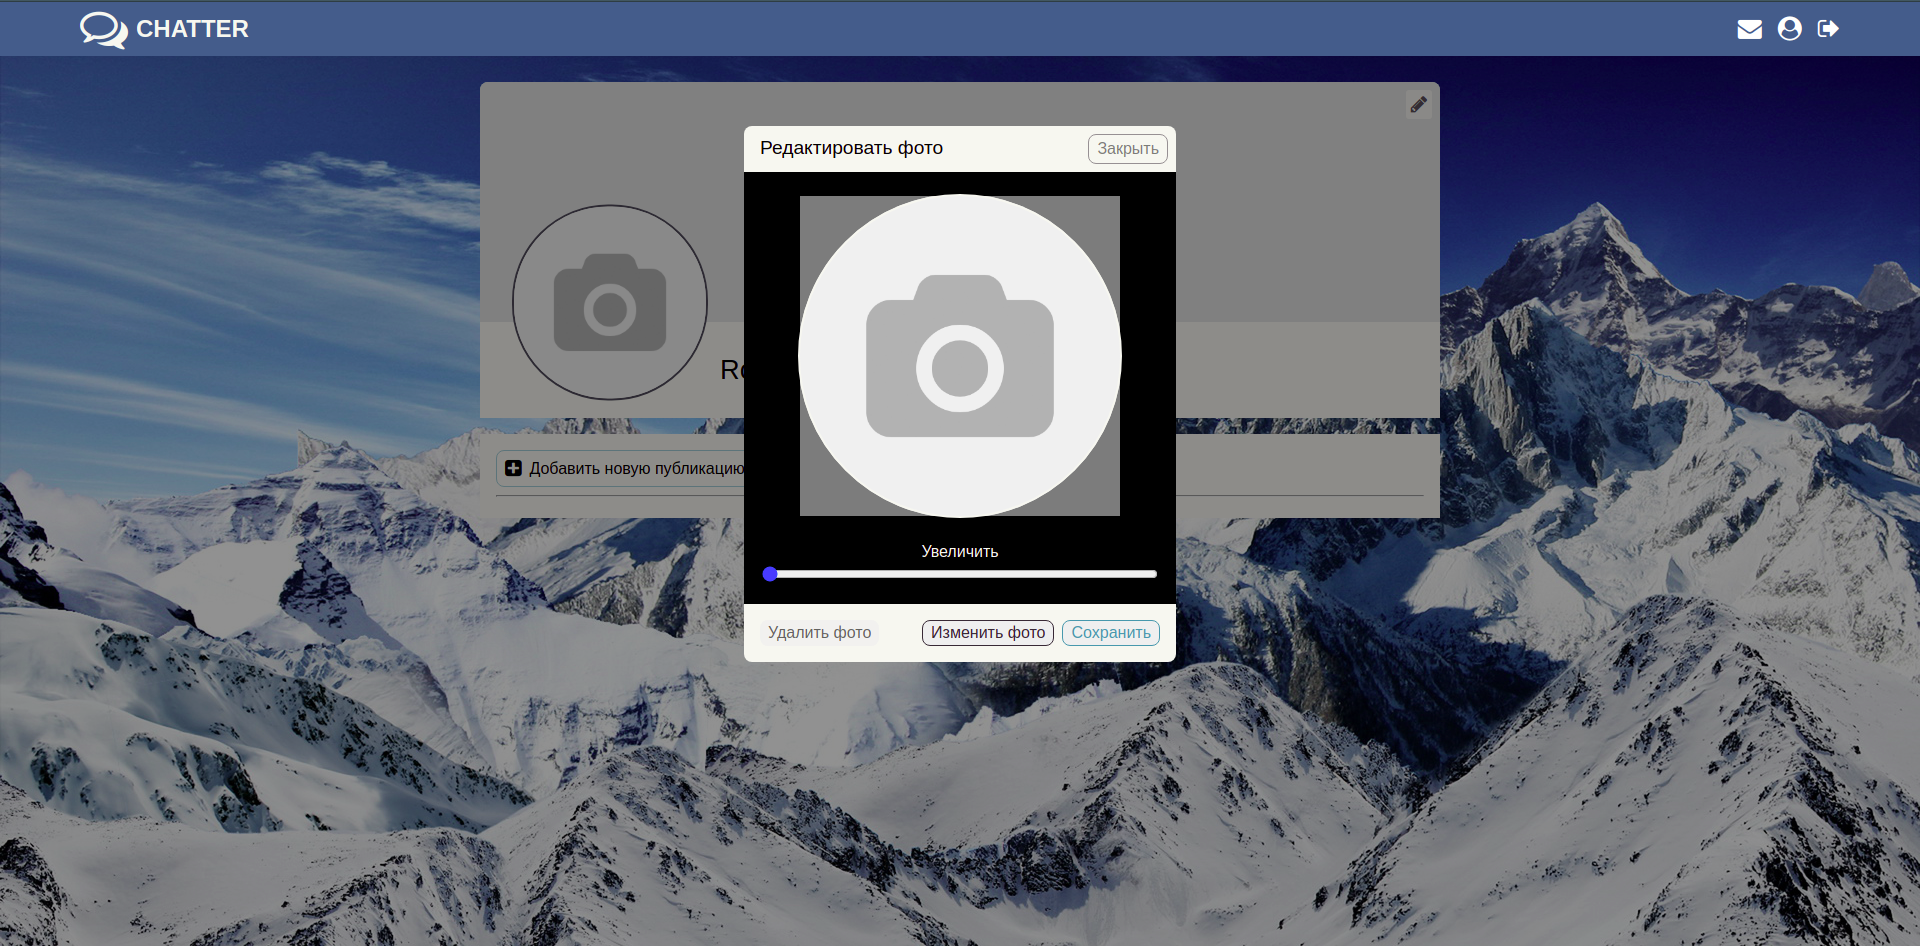
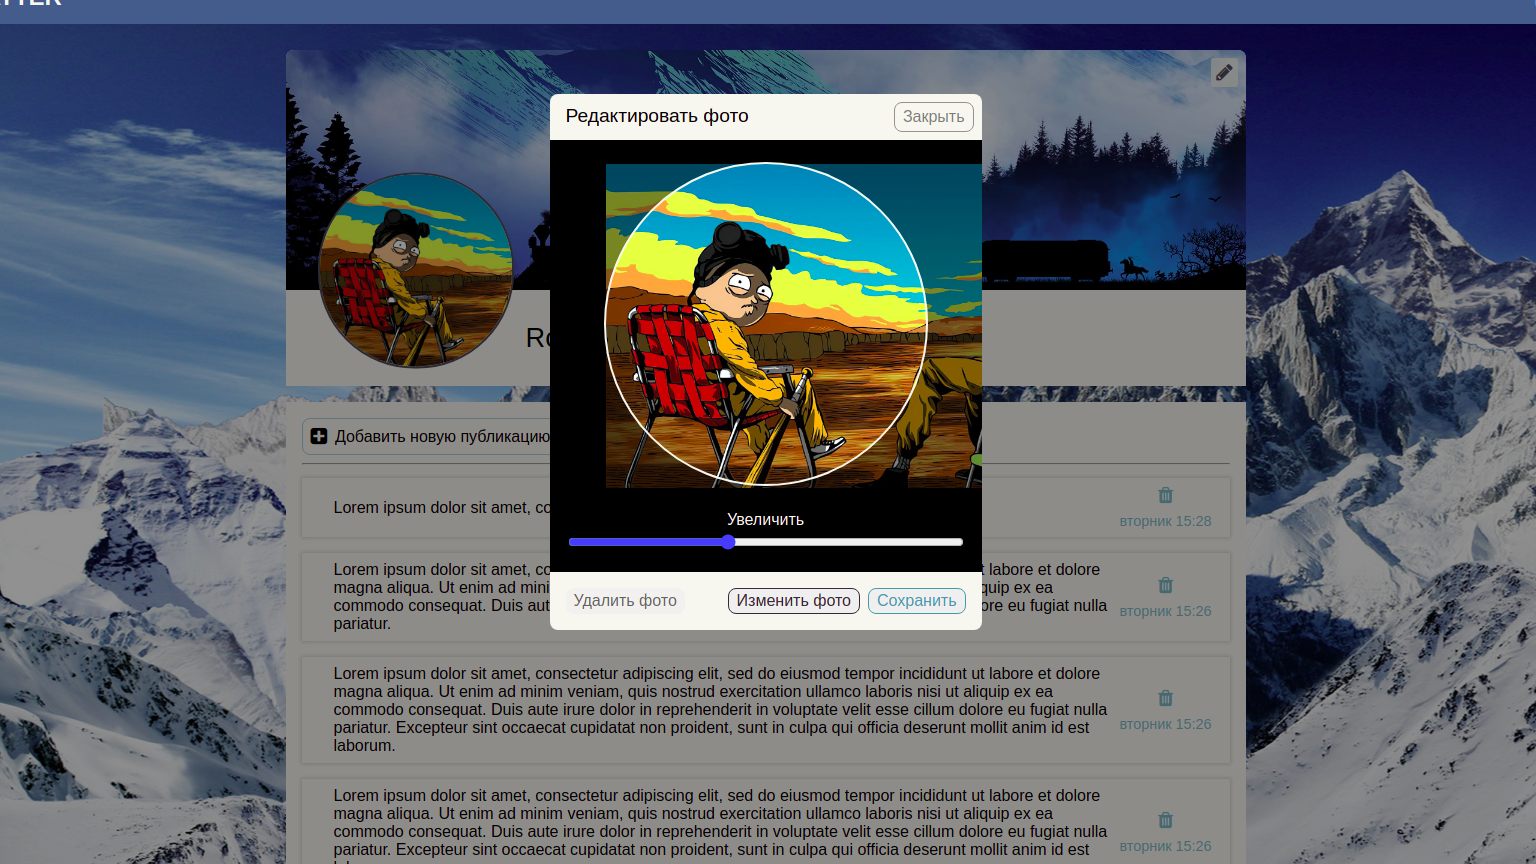
Изменены картинки для Chatter

diff --git a/src/js/dataBase.js b/src/js/dataBase.js
@@ -16,7 +16,7 @@ const data = {
     firebase: "https://chatter-df15a.web.app/",
     details: {
       used_technologies: ["Vue 3", "Vue-Router", "VueX", "Sass", "Firebase"],
-      images: ["chatter0", "chatter1", "chatter2", "chatter3", "chatter4"],
+      images: ["chatter0", "chatter1", "chatter2", "chatter3", "chatter4", "chatter5"],
     },
   },
   trello: {

diff --git a/dist/main.js b/dist/main.js
@@ -113,7 +113,7 @@ var data = {
     firebase: "https://chatter-df15a.web.app/",
     details: {
       used_technologies: ["Vue 3", "Vue-Router", "VueX", "Sass", "Firebase"],
-      images: ["chatter0", "chatter1", "chatter2", "chatter3", "chatter4"]
+      images: ["chatter0", "chatter1", "chatter2", "chatter3", "chatter4", "chatter5"]
     }
   },
   trello: {
